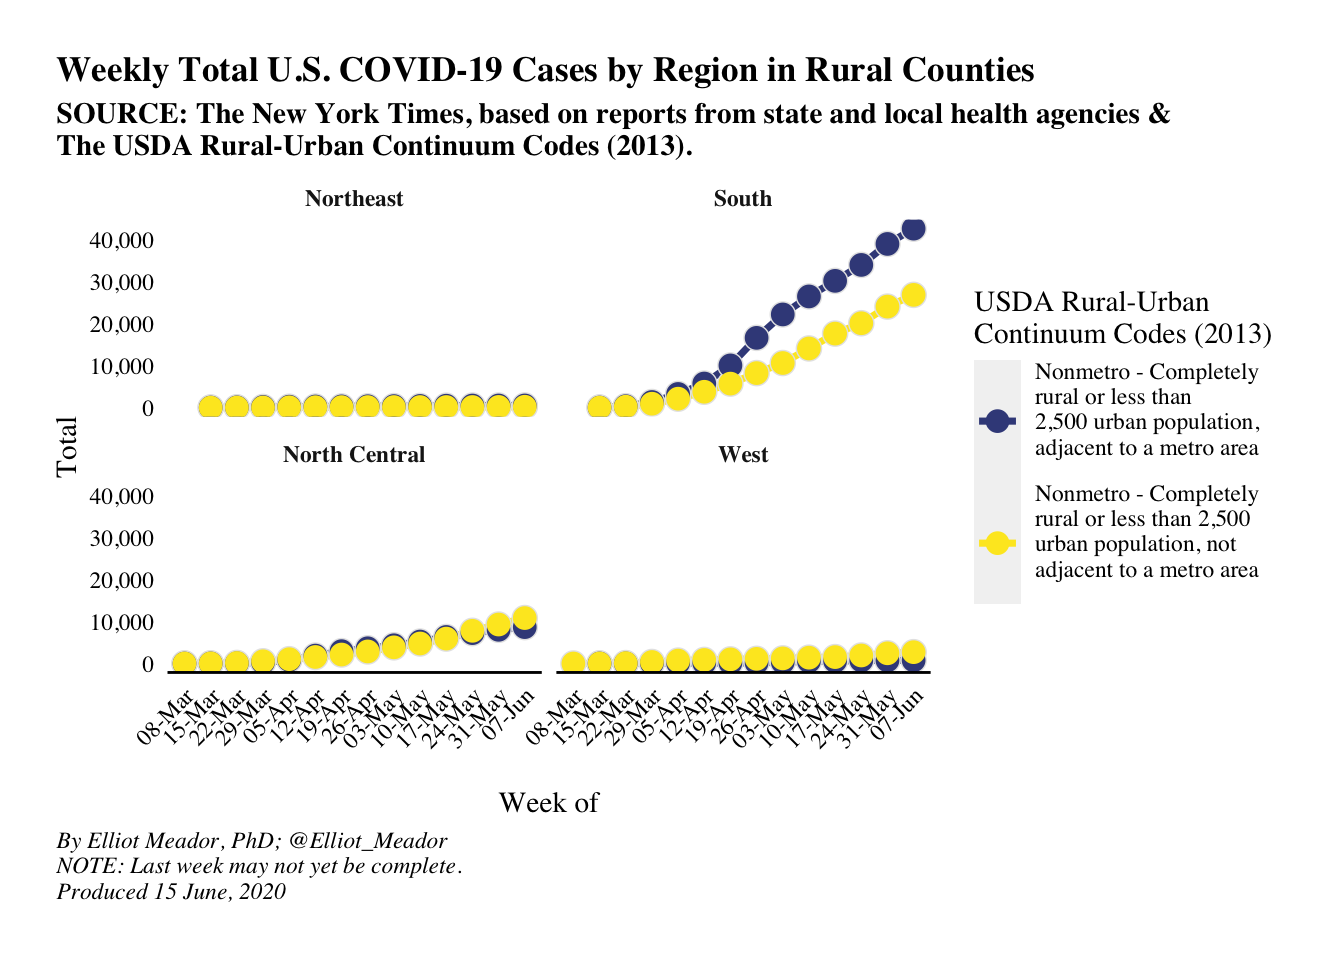
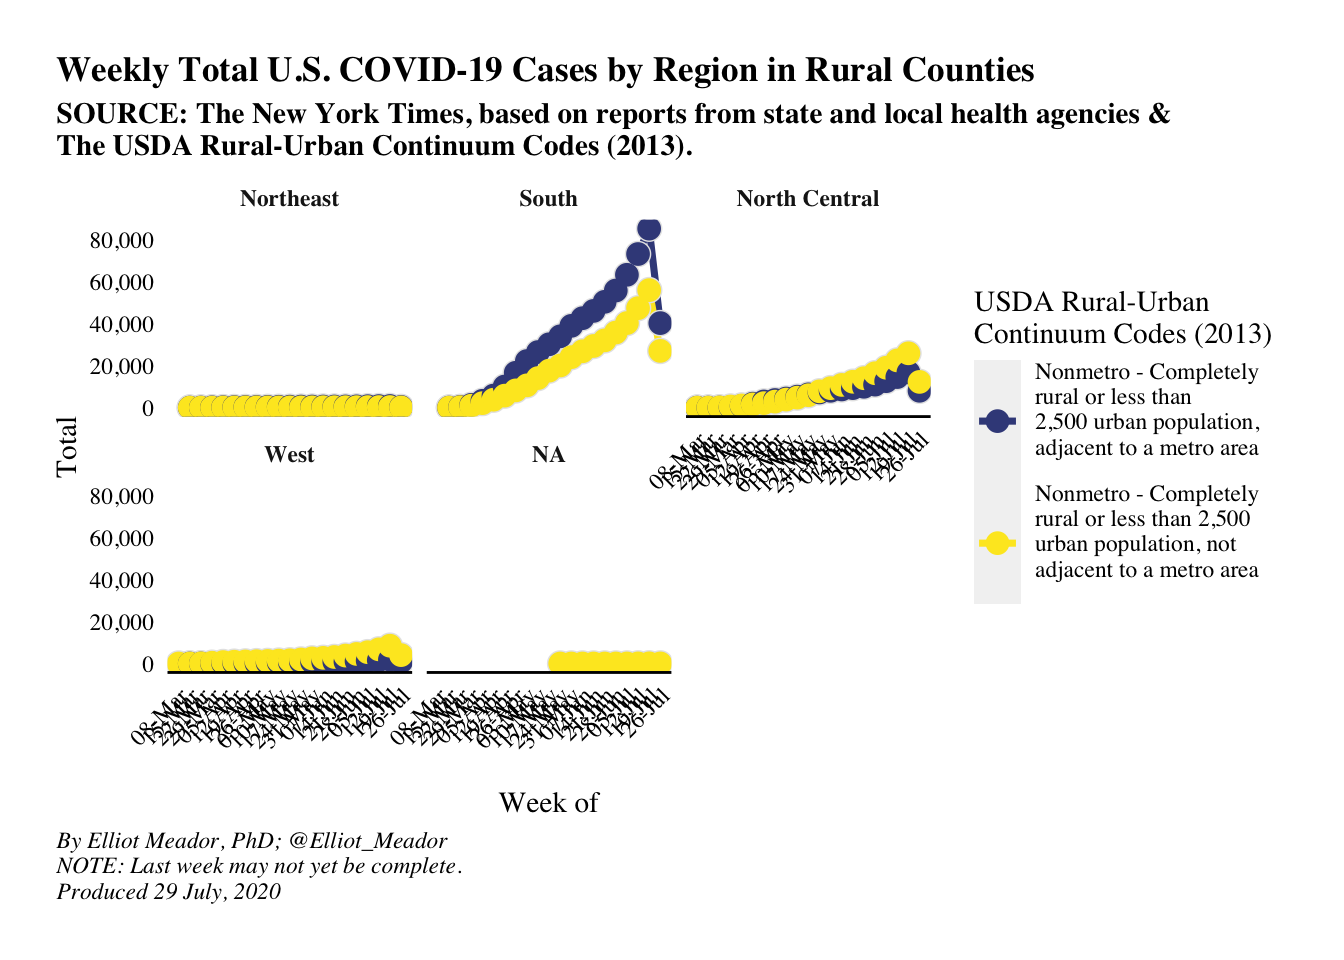
First new commit.

diff --git a/public/post/covid-19-rural-deltanomics/index.html b/public/post/covid-19-rural-deltanomics/index.html
@@ -28,7 +28,7 @@
   
     
   
-  <meta name="description" content="Last updated on 15-Jun-2020  Introduction Now that we are square in the middle of the Covid-19 pandemic, I thought it might be beneficial to look at some statistics associated with the number of cases. We’ll differentiate our analysis by focusing on cases of Covid-19 in rural areas of the U.S. There are a couple of reasons for this: mainly, rural analytics is my speciality, so while I don’t know much about the virus, I do know some about rural societies and economies; we can easily find pertinent data on rural counties; and, we can utilise some cool built-in R functions to help us along the way.">
+  <meta name="description" content="Last updated on 29-Jul-2020  Introduction Now that we are square in the middle of the Covid-19 pandemic, I thought it might be beneficial to look at some statistics associated with the number of cases. We’ll differentiate our analysis by focusing on cases of Covid-19 in rural areas of the U.S. There are a couple of reasons for this: mainly, rural analytics is my speciality, so while I don’t know much about the virus, I do know some about rural societies and economies; we can easily find pertinent data on rural counties; and, we can utilise some cool built-in R functions to help us along the way.">
 
   
   <link rel="alternate" hreflang="en-us" href="/post/covid-19-rural-deltanomics/">
@@ -270,7 +270,7 @@
   <meta property="og:site_name" content="Deltanomics">
   <meta property="og:url" content="/post/covid-19-rural-deltanomics/">
   <meta property="og:title" content="Covid-19 and Rural Areas in the U.S. | Deltanomics">
-  <meta property="og:description" content="Last updated on 15-Jun-2020  Introduction Now that we are square in the middle of the Covid-19 pandemic, I thought it might be beneficial to look at some statistics associated with the number of cases. We’ll differentiate our analysis by focusing on cases of Covid-19 in rural areas of the U.S. There are a couple of reasons for this: mainly, rural analytics is my speciality, so while I don’t know much about the virus, I do know some about rural societies and economies; we can easily find pertinent data on rural counties; and, we can utilise some cool built-in R functions to help us along the way."><meta property="og:image" content="/images/icon_hu92a9dc9639b79cadf266306904fb01f6_516996_512x512_fill_lanczos_center_2.png">
+  <meta property="og:description" content="Last updated on 29-Jul-2020  Introduction Now that we are square in the middle of the Covid-19 pandemic, I thought it might be beneficial to look at some statistics associated with the number of cases. We’ll differentiate our analysis by focusing on cases of Covid-19 in rural areas of the U.S. There are a couple of reasons for this: mainly, rural analytics is my speciality, so while I don’t know much about the virus, I do know some about rural societies and economies; we can easily find pertinent data on rural counties; and, we can utilise some cool built-in R functions to help us along the way."><meta property="og:image" content="/images/icon_hu92a9dc9639b79cadf266306904fb01f6_516996_512x512_fill_lanczos_center_2.png">
   <meta property="twitter:image" content="/images/icon_hu92a9dc9639b79cadf266306904fb01f6_516996_512x512_fill_lanczos_center_2.png"><meta property="og:locale" content="en-us">
   
     
@@ -322,7 +322,7 @@
       "url": "img//"
     }
   },
-  "description": "Last updated on 15-Jun-2020  Introduction Now that we are square in the middle of the Covid-19 pandemic, I thought it might be beneficial to look at some statistics associated with the number of cases. We’ll differentiate our analysis by focusing on cases of Covid-19 in rural areas of the U.S. There are a couple of reasons for this: mainly, rural analytics is my speciality, so while I don’t know much about the virus, I do know some about rural societies and economies; we can easily find pertinent data on rural counties; and, we can utilise some cool built-in R functions to help us along the way."
+  "description": "Last updated on 29-Jul-2020  Introduction Now that we are square in the middle of the Covid-19 pandemic, I thought it might be beneficial to look at some statistics associated with the number of cases. We’ll differentiate our analysis by focusing on cases of Covid-19 in rural areas of the U.S. There are a couple of reasons for this: mainly, rural analytics is my speciality, so while I don’t know much about the virus, I do know some about rural societies and economies; we can easily find pertinent data on rural counties; and, we can utilise some cool built-in R functions to help us along the way."
 }
 </script>
 
@@ -706,8 +706,8 @@
       
 
 
-<div id="last-updated-on-15-jun-2020" class="section level4">
-<h4>Last updated on 15-Jun-2020</h4>
+<div id="last-updated-on-29-jul-2020" class="section level4">
+<h4>Last updated on 29-Jul-2020</h4>
 </div>
 <div id="introduction" class="section level1">
 <h1>Introduction</h1>

diff --git a/public/categories/r/index.html b/public/categories/r/index.html
@@ -613,7 +613,7 @@ Why like me?
     <h2><a href="/post/covid-19-rural-deltanomics/">Covid-19 and Rural Areas in the U.S.</a></h2>
     <div class="article-style">
       
-      Last updated on 15-Jun-2020  Introduction Now that we are square in the middle of the Covid-19 pandemic, I thought it might be beneficial to look at some statistics associated with the number of cases. We’ll differentiate our analysis by focusing on cases of Covid-19 in rural areas of the U.S. There are a couple of reasons for this: mainly, rural analytics is my speciality, so while I don’t know much about the virus, I do know some about rural societies and economies; we can easily find pertinent data on rural counties; and, we can utilise some cool built-in R functions to help us along the way.
+      Last updated on 29-Jul-2020  Introduction Now that we are square in the middle of the Covid-19 pandemic, I thought it might be beneficial to look at some statistics associated with the number of cases. We’ll differentiate our analysis by focusing on cases of Covid-19 in rural areas of the U.S. There are a couple of reasons for this: mainly, rural analytics is my speciality, so while I don’t know much about the virus, I do know some about rural societies and economies; we can easily find pertinent data on rural counties; and, we can utilise some cool built-in R functions to help us along the way.
       
     </div>
   </div>

diff --git a/public/tags/data/index.html b/public/tags/data/index.html
@@ -603,7 +603,7 @@
     <h2><a href="/post/covid-19-rural-deltanomics/">Covid-19 and Rural Areas in the U.S.</a></h2>
     <div class="article-style">
       
-      Last updated on 15-Jun-2020  Introduction Now that we are square in the middle of the Covid-19 pandemic, I thought it might be beneficial to look at some statistics associated with the number of cases. We’ll differentiate our analysis by focusing on cases of Covid-19 in rural areas of the U.S. There are a couple of reasons for this: mainly, rural analytics is my speciality, so while I don’t know much about the virus, I do know some about rural societies and economies; we can easily find pertinent data on rural counties; and, we can utilise some cool built-in R functions to help us along the way.
+      Last updated on 29-Jul-2020  Introduction Now that we are square in the middle of the Covid-19 pandemic, I thought it might be beneficial to look at some statistics associated with the number of cases. We’ll differentiate our analysis by focusing on cases of Covid-19 in rural areas of the U.S. There are a couple of reasons for this: mainly, rural analytics is my speciality, so while I don’t know much about the virus, I do know some about rural societies and economies; we can easily find pertinent data on rural counties; and, we can utilise some cool built-in R functions to help us along the way.
       
     </div>
   </div>

diff --git a/public/tags/dplyr/index.html b/public/tags/dplyr/index.html
@@ -603,7 +603,7 @@
     <h2><a href="/post/covid-19-rural-deltanomics/">Covid-19 and Rural Areas in the U.S.</a></h2>
     <div class="article-style">
       
-      Last updated on 15-Jun-2020  Introduction Now that we are square in the middle of the Covid-19 pandemic, I thought it might be beneficial to look at some statistics associated with the number of cases. We’ll differentiate our analysis by focusing on cases of Covid-19 in rural areas of the U.S. There are a couple of reasons for this: mainly, rural analytics is my speciality, so while I don’t know much about the virus, I do know some about rural societies and economies; we can easily find pertinent data on rural counties; and, we can utilise some cool built-in R functions to help us along the way.
+      Last updated on 29-Jul-2020  Introduction Now that we are square in the middle of the Covid-19 pandemic, I thought it might be beneficial to look at some statistics associated with the number of cases. We’ll differentiate our analysis by focusing on cases of Covid-19 in rural areas of the U.S. There are a couple of reasons for this: mainly, rural analytics is my speciality, so while I don’t know much about the virus, I do know some about rural societies and economies; we can easily find pertinent data on rural counties; and, we can utilise some cool built-in R functions to help us along the way.
       
     </div>
   </div>

diff --git a/public/tags/ggplot/index.html b/public/tags/ggplot/index.html
@@ -603,7 +603,7 @@
     <h2><a href="/post/covid-19-rural-deltanomics/">Covid-19 and Rural Areas in the U.S.</a></h2>
     <div class="article-style">
       
-      Last updated on 15-Jun-2020  Introduction Now that we are square in the middle of the Covid-19 pandemic, I thought it might be beneficial to look at some statistics associated with the number of cases. We’ll differentiate our analysis by focusing on cases of Covid-19 in rural areas of the U.S. There are a couple of reasons for this: mainly, rural analytics is my speciality, so while I don’t know much about the virus, I do know some about rural societies and economies; we can easily find pertinent data on rural counties; and, we can utilise some cool built-in R functions to help us along the way.
+      Last updated on 29-Jul-2020  Introduction Now that we are square in the middle of the Covid-19 pandemic, I thought it might be beneficial to look at some statistics associated with the number of cases. We’ll differentiate our analysis by focusing on cases of Covid-19 in rural areas of the U.S. There are a couple of reasons for this: mainly, rural analytics is my speciality, so while I don’t know much about the virus, I do know some about rural societies and economies; we can easily find pertinent data on rural counties; and, we can utilise some cool built-in R functions to help us along the way.
       
     </div>
   </div>

diff --git a/public/index.html b/public/index.html
@@ -1020,7 +1020,7 @@
 
     
     <div class="article-style">
-      Last updated on 15-Jun-2020  Introduction Now that we are square in the middle of the Covid-19 pandemic, I thought it might be …
+      Last updated on 29-Jul-2020  Introduction Now that we are square in the middle of the Covid-19 pandemic, I thought it might be …
     </div>
     
 

diff --git a/public/post/index.html b/public/post/index.html
@@ -717,7 +717,7 @@
 
     
     <div class="article-style">
-      Last updated on 15-Jun-2020  Introduction Now that we are square in the middle of the Covid-19 pandemic, I thought it might be …
+      Last updated on 29-Jul-2020  Introduction Now that we are square in the middle of the Covid-19 pandemic, I thought it might be …
     </div>
     
 

diff --git a/content/post/2020-04-26-covid-19-and-rural-areas-in-the-u-s.html b/content/post/2020-04-26-covid-19-and-rural-areas-in-the-u-s.html
@@ -25,8 +25,8 @@ editor_options:
 
 
 
-<div id="last-updated-on-15-jun-2020" class="section level4">
-<h4>Last updated on 15-Jun-2020</h4>
+<div id="last-updated-on-29-jul-2020" class="section level4">
+<h4>Last updated on 29-Jul-2020</h4>
 </div>
 <div id="introduction" class="section level1">
 <h1>Introduction</h1>
